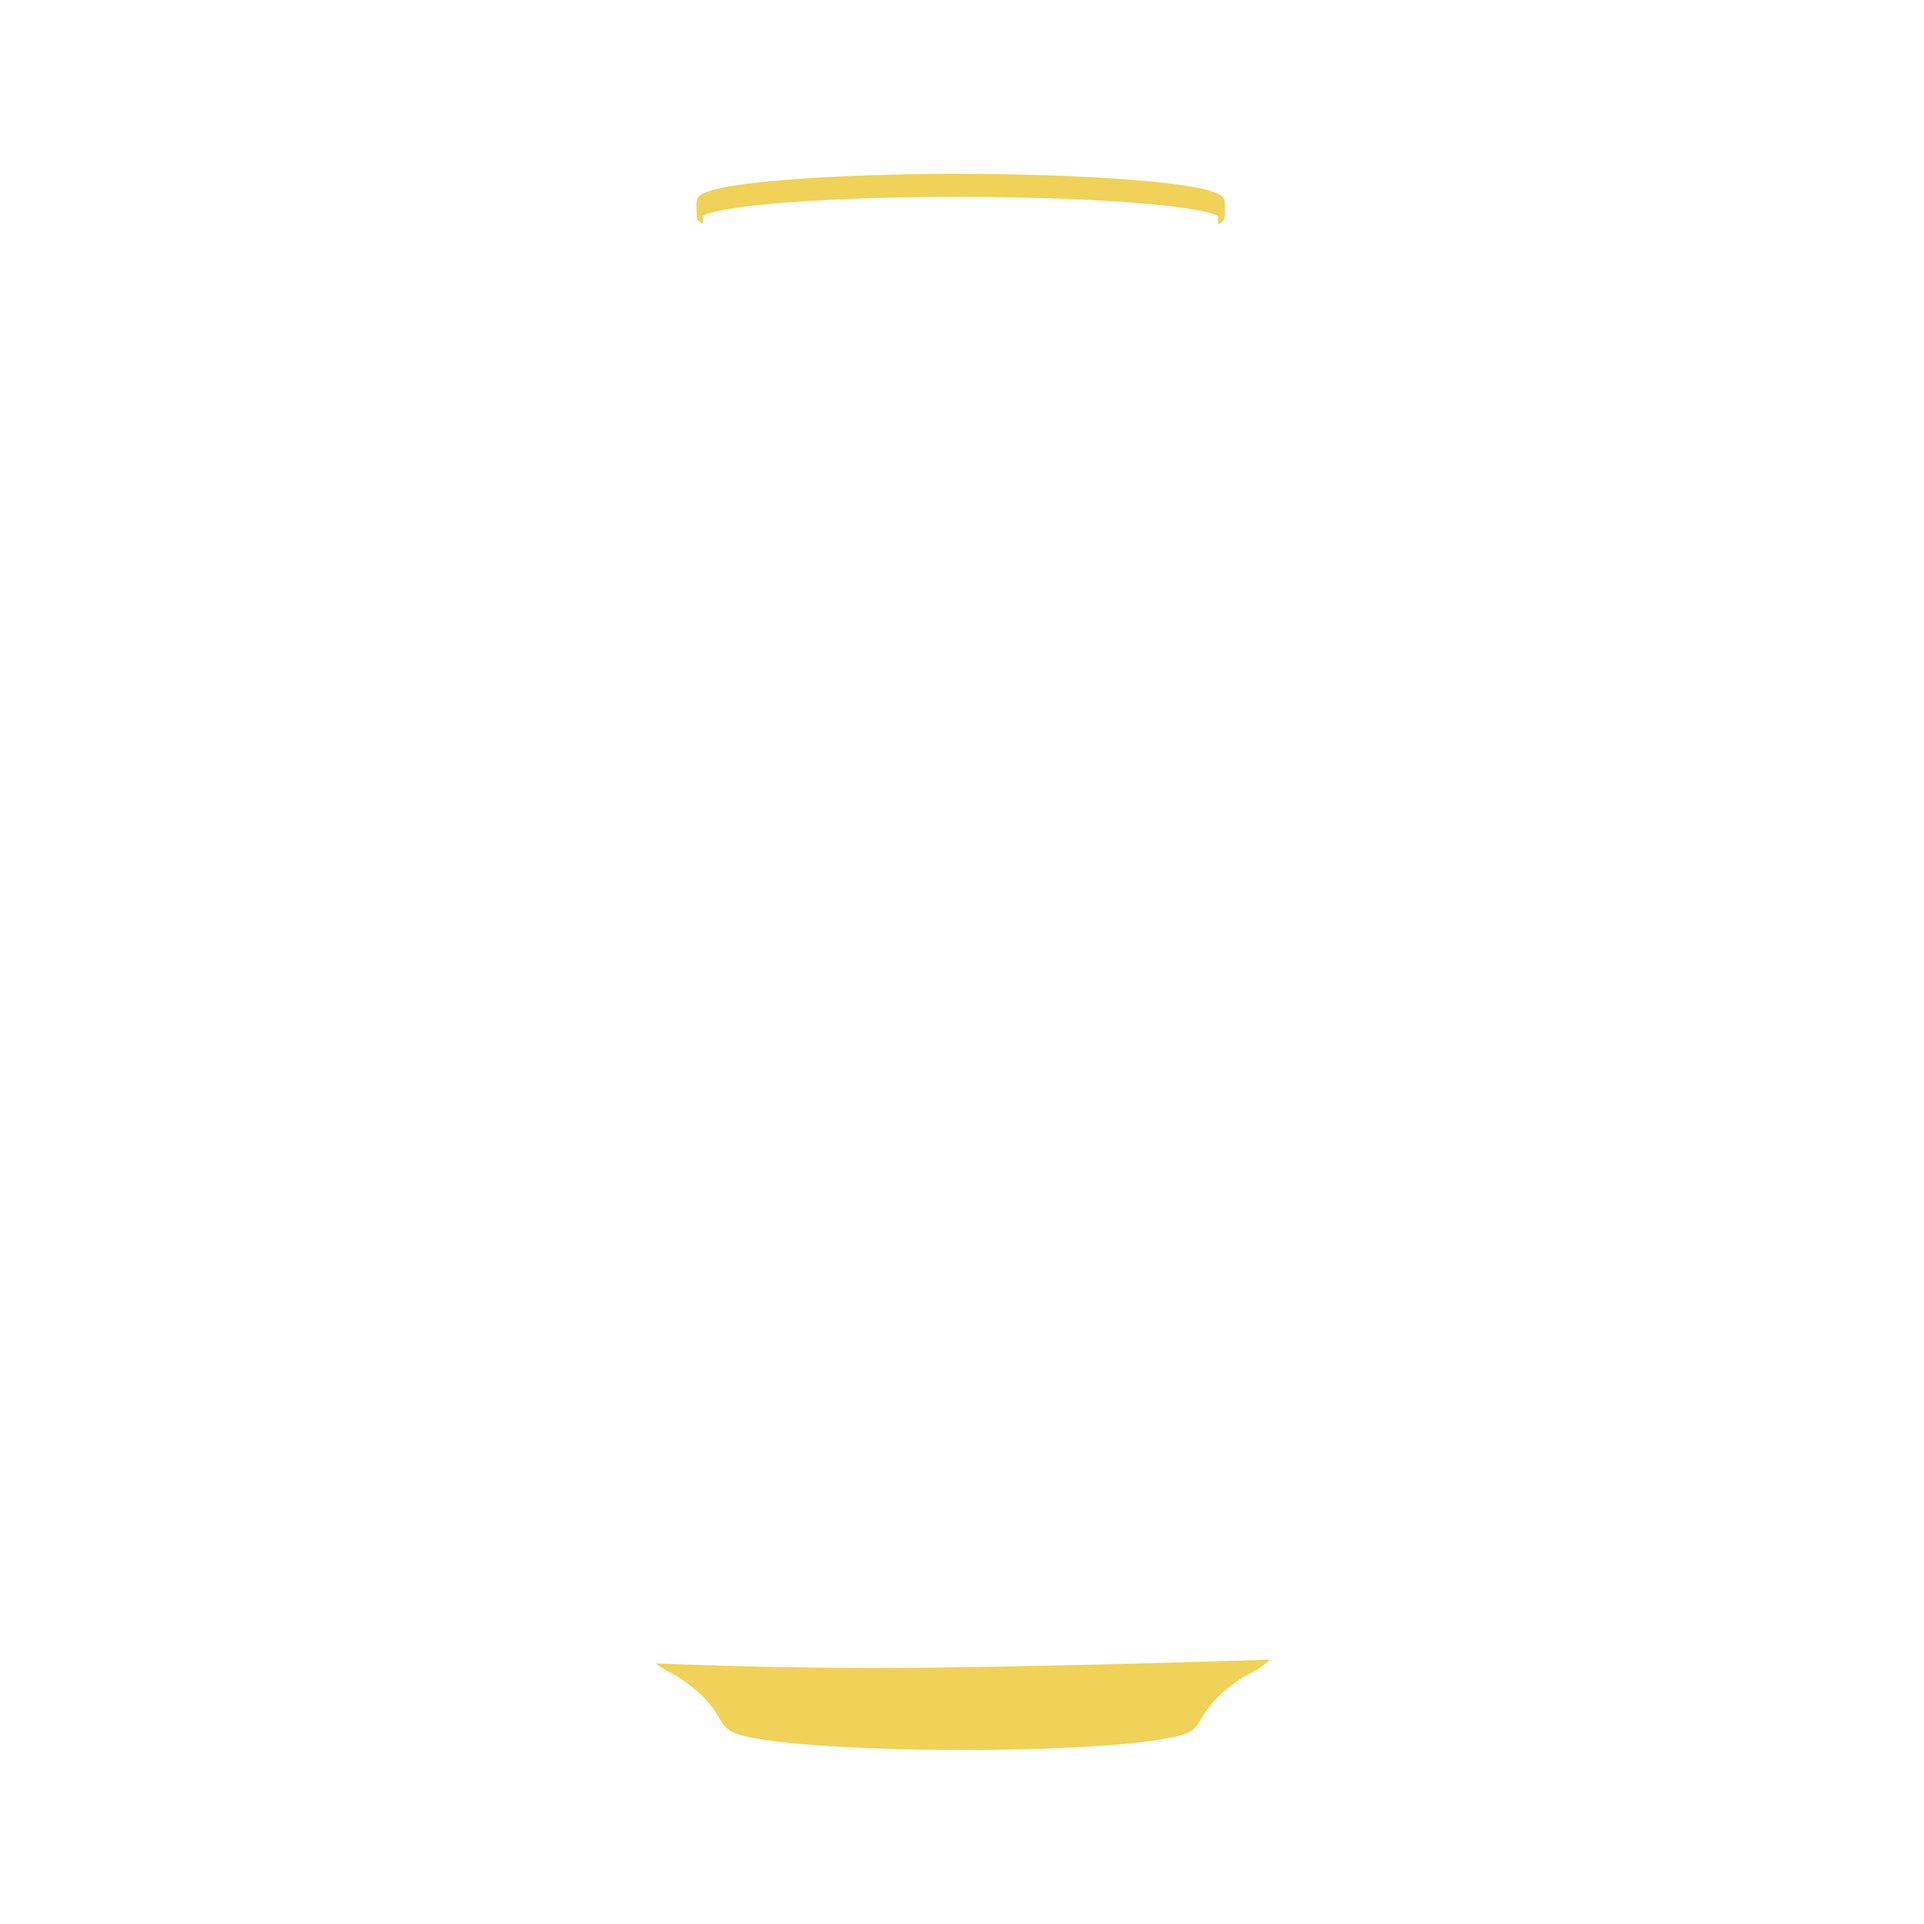
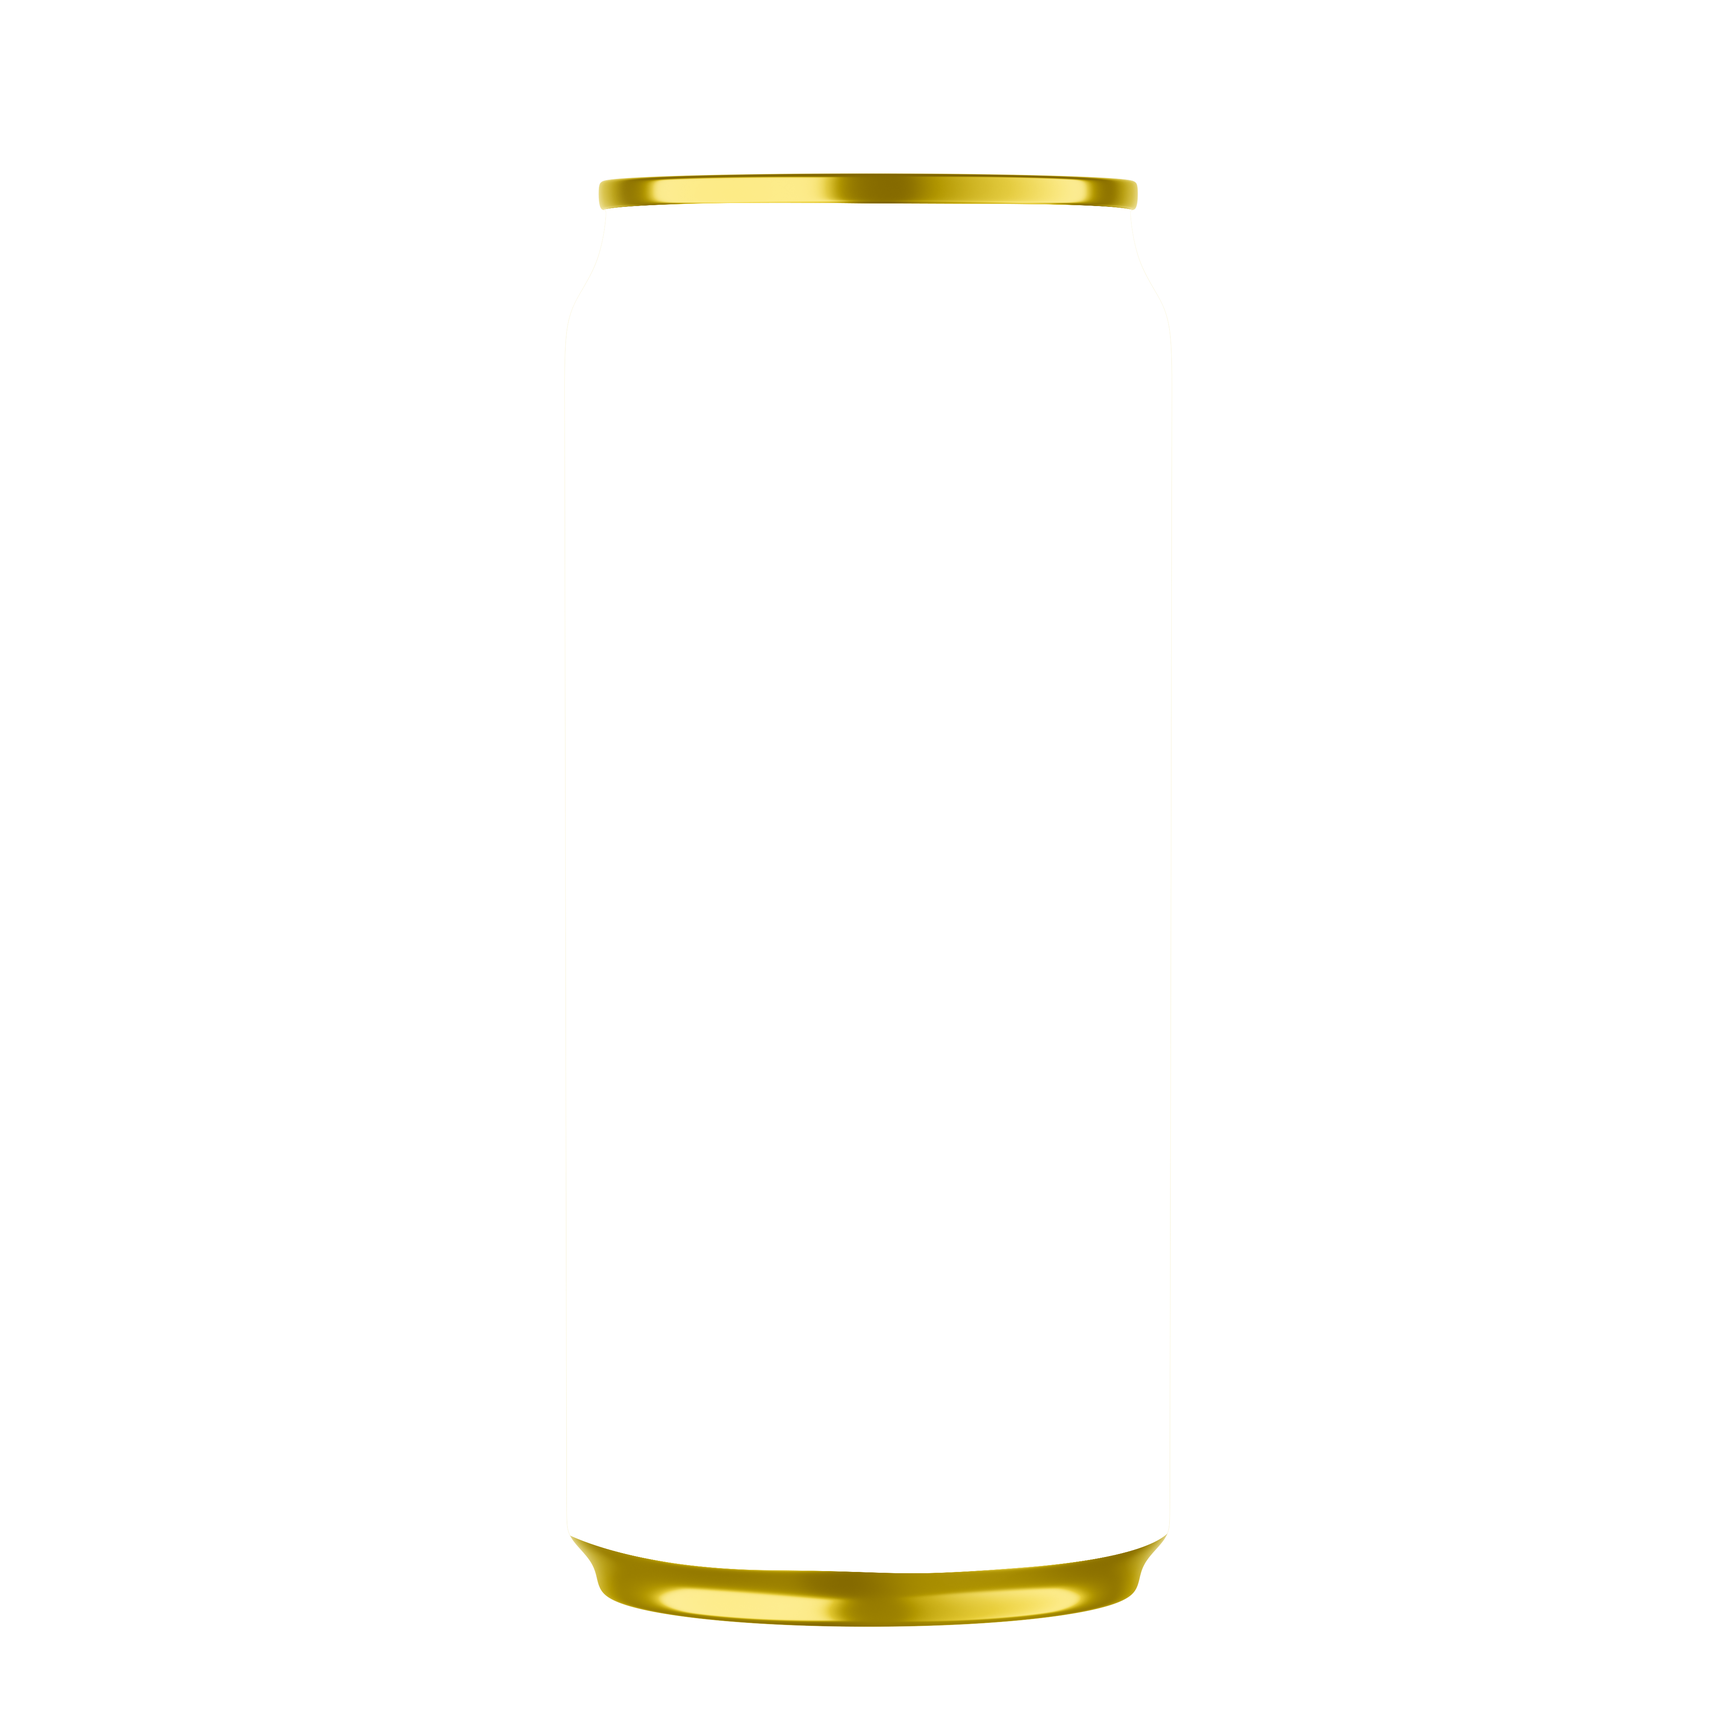
feat: apply new soda

Changed region(s): [[0.3438, 0.8438, 0.6875, 0.9688], [0.3438, 0.0625, 0.6875, 0.125]]

diff --git a/src/components/canConstructor/canView.jsx b/src/components/canConstructor/canView.jsx
@@ -1,7 +1,9 @@
 import "./canView.css";
 import CanBackground from "./canBackground";
 import { CAN_COLOR_LABEL_MAP } from "./../const";
+
 import shadowsImage from "../../assets/images/soda/shadows.png";
+import canWaterImage from "../../assets/images/soda/can_water.png";
 
 import edgeBlack from "../../assets/images/soda/can_top_bottom_black.png";
 import edgeGold from "../../assets/images/soda/can_top_bottom_gold.png";
@@ -35,6 +37,12 @@ export default function CanView({ canColor, stickerColor }) {
         alt="Soda Shadows"
         className="soda-layer shadows-layer"
       />
+      <img
+        src={canWaterImage}
+        aria-hidden
+        alt="Soda Water"
+        className="soda-layer can-water-layer"
+      ></img>
       <div
         className="place-holder-to-keep-object-size"
         style={{ width: 600, height: 600 }}

diff --git a/src/main.jsx b/src/main.jsx
@@ -2,9 +2,6 @@
 import "./assets/ClashDisplay_Complete/Fonts/WEB/css/clash-display.css";
 import "./assets/ClashGrotesk_Complete/Fonts/WEB/css/clash-grotesk.css";
 
-// styles
-import "./index.css";
-
 import React from "react";
 import ReactDOM from "react-dom/client";
 import App from "./App.jsx";

diff --git a/src/components/canConstructor/canView.css b/src/components/canConstructor/canView.css
@@ -20,10 +20,16 @@
   mix-blend-mode: multiply;
 }
 
+.can-water-layer {
+  width: 640px;
+  height: 640px;
+  opacity: 0.5;
+}
+
 .coda-caps-colored {
   height: 640px;
-  width: 658px;
-  left: -204px;
+  width: 640px;
+  left: -195px;
 }
 
 .can-background {
